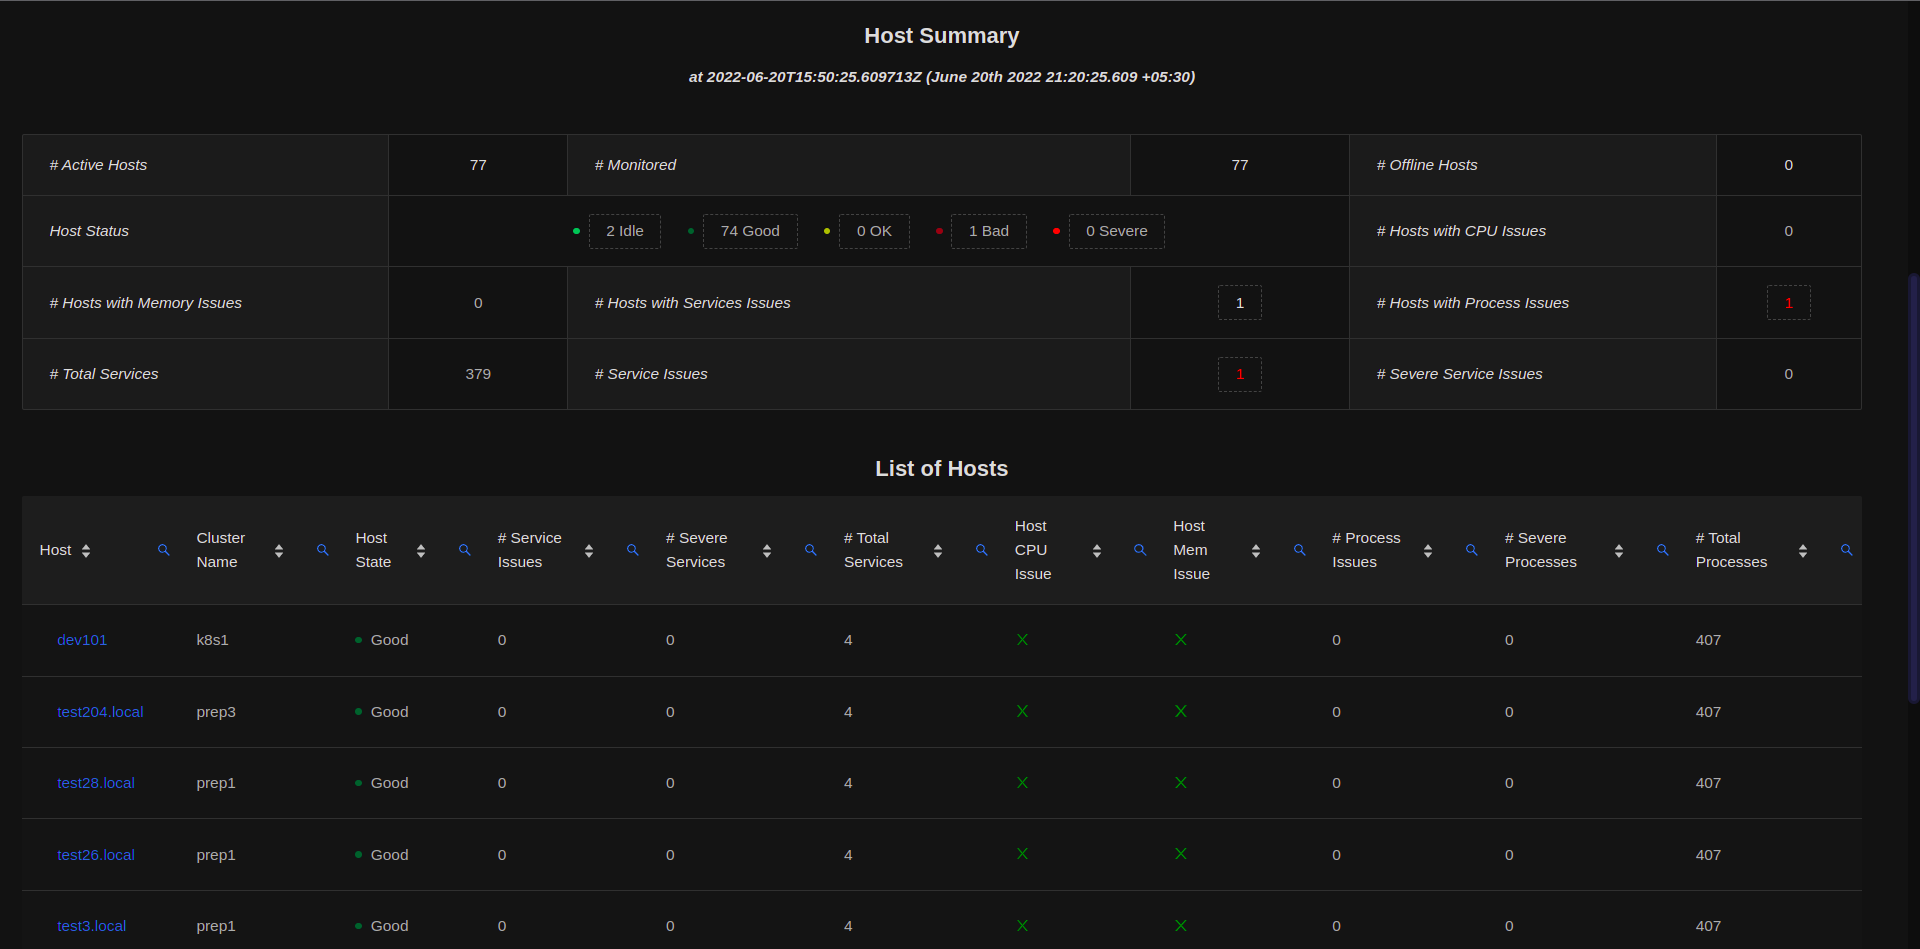
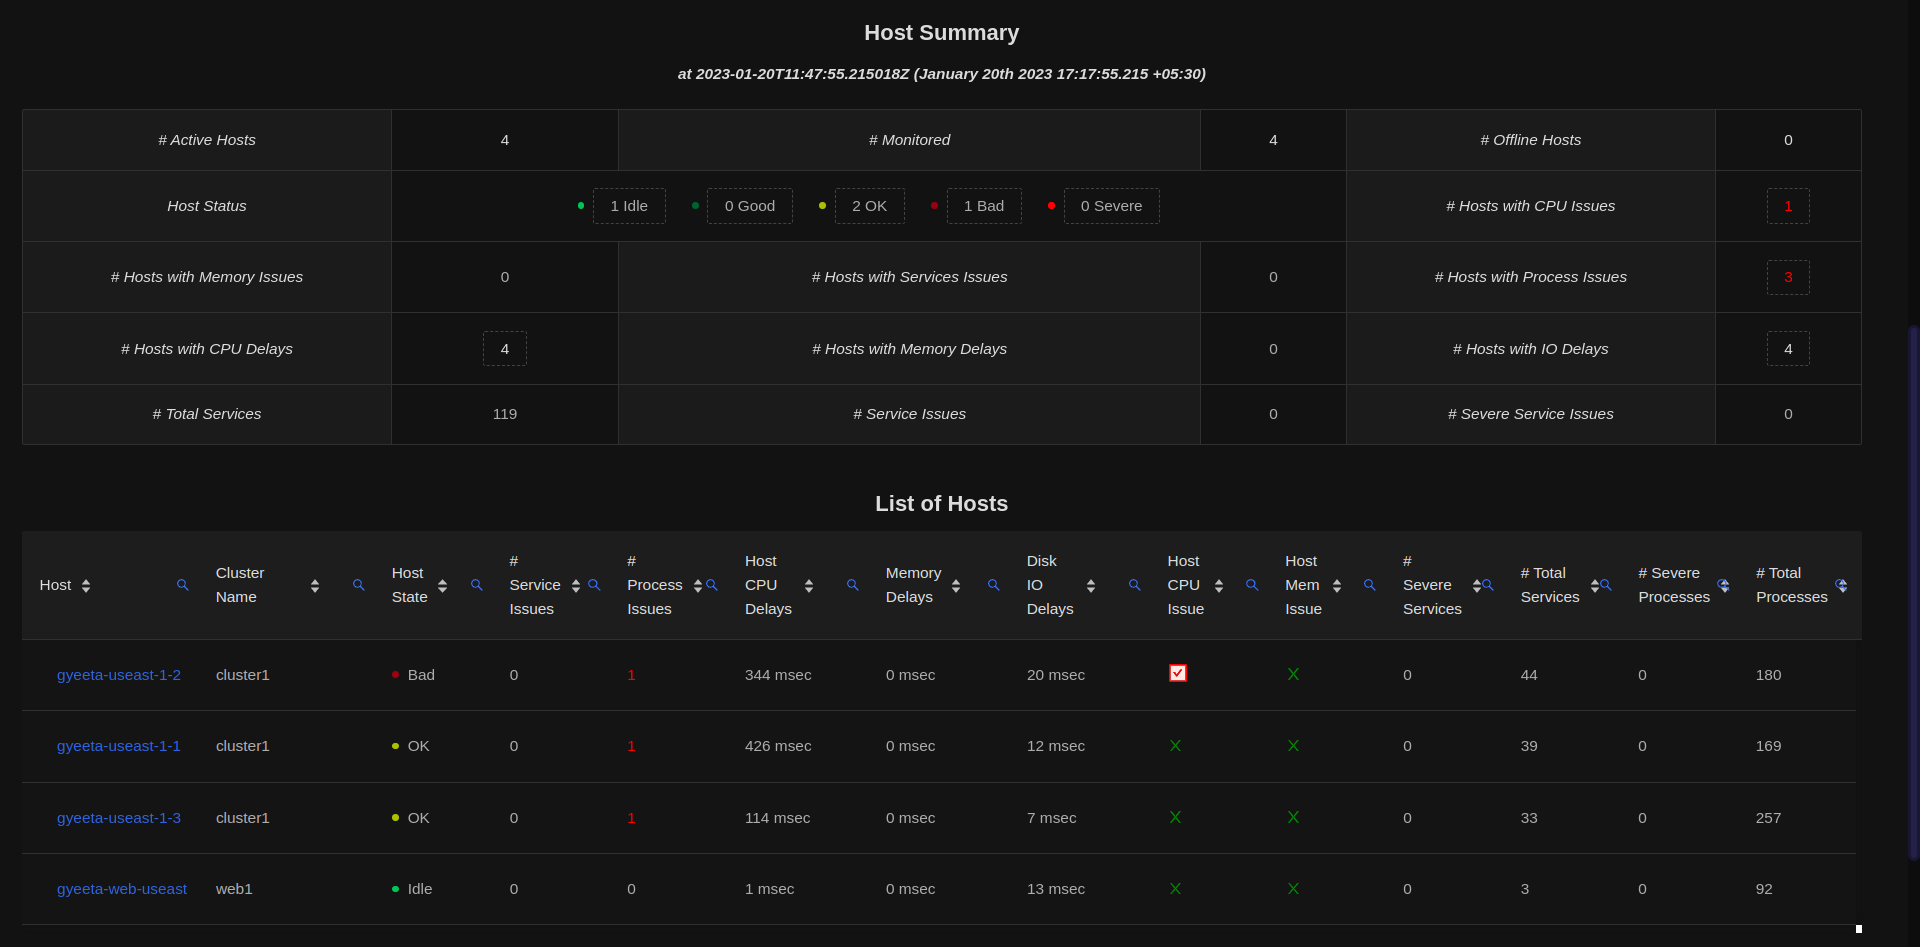
Updated for v0.2.0

diff --git a/docs/installation/partha_install.md b/docs/installation/partha_install.md
@@ -27,15 +27,25 @@ The `partha` Host Agent requires a Linux Kernel with minimum kernel version of 4
 `partha` currently supports only *x86_64* processors. Also, only *Intel/AMD* processors released after 2012 are supported as
 `partha` is compiled with avx instruction support.
 
-### Requirement of Kernel Headers {#kernel-headers}
+### Requirement of Kernel Headers for older kernels {#kernel-headers}
 
-The `partha` agent needs Kernel Headers package to be installed for eBPF support. Users need to ensure that the Kernel Headers 
+The `partha` agent needs Kernel Headers package to be installed on older kernels for eBPF support. Users need to ensure that the Kernel Headers 
 package is installed on the hosts to be monitored as otherwise `partha` will not run. 
+
+#### Older Distributions where Kernel Headers package required 
+
+- Ubuntu 18, 19, 20
+- Debian 10, 11
+- RHEL / CentOS 8.x, Rocky Linux 8.x
+- Amazon Linux 1 and 2
+- Fedora Linux 35 and below
+
+Newer Distributions include eBPF CO-RE BTF (BPF Type Format) Support and do not require *Kernel Headers* for eBPF based applications.
 
 On Google Container Optimized OS (COS), the `partha` container will itself download the currently running Kernel's Headers and so,
 the Kernel Package is not needed.
 
-**Command to install Kernel Headers :**
+**Command to install Kernel Headers (needed for older Distributions only) :**
 
 
 <Tabs>
@@ -205,9 +215,10 @@ helm show values gyeeta/partha > /tmp/partha.yaml
 helm install --namespace gyeeta --create-namespace partha1  gyeeta/partha -f /tmp/partha.yaml
 
 ```
-:::note
+:::info
 
-Users are required to first install the Linux Kernel Headers before running the Partha Helm Chart. Please refer to [Kernel Headers](#kernel-headers).
+On Older Linux Distributions, users are required to first install the Linux Kernel Headers before running the Partha Helm Chart. 
+Please refer to [Kernel Headers](#kernel-headers).
 
 :::
 

diff --git a/docs/installation/k8s_helm/partha_helm.md b/docs/installation/k8s_helm/partha_helm.md
@@ -21,17 +21,27 @@ The Partha Host Agent is installed as a Daemonset as it needs to be installed on
 - Helm version 3.2.0+
 - Linux kernel version 4.4+
 
-### Requirement of Kernel Headers
+### Requirement of Kernel Headers for older kernels
 
-The Partha Agent container requires *Kernel Headers* package to be installed on the base host for eBPF support. 
+The Partha Agent container requires *Kernel Headers* package to be installed on the base host for eBPF support on older kernels.
 
-This requirement is not applicable on Google Container Optimized OS (COS) (used in GKE environments), as the partha container will itself download 
-the currently running Kernel's Headers.
+#### Older Distributions where Kernel Headers package needed 
+
+- Ubuntu 20 and below
+- Debian 11 and below
+- RHEL, CentOS, Rocky Linux 8
+- Amazon Linux 1 and 2
+- Fedora Linux 35 and below
+
+On Google Container Optimized OS (COS) (used in GKE environments), the partha container will itself download the currently running Kernel's Headers.
+
+Newer Distributions include eBPF CO-RE BTF (BPF Type Format) Support and do not require *Kernel Headers* for eBPF based applications.
 
 The Partha Helm Chart includes a parameter `partha_config.install_kern_headers` which, if enabled, the Partha container itself will try installing
 the Kernel Headers package to the base OS. The parameter is disabled by default as on enabling this, the container may make changes to the base OS.
 
-Please refer to [Kernel Headers Installation](../partha_install#kernel-headers) for instructions on installing Kernel Headers directly on the base OS.
+Please refer to [Kernel Headers Installation](https://gyeeta.io/docs/installation/partha_install#kernel-headers) for instructions on installing 
+Kernel Headers directly on the base OS.
 
 ## Security Requirements
 

diff --git a/docs/monitor/hostdash.md b/docs/monitor/hostdash.md
@@ -8,7 +8,7 @@ description: Host Level Dashboards and Monitors
 
 ## Host Dashboard
 
-The Host Dashboard lists out all the currently active Hosts and shows their current state.
+The Host Dashboard lists out all the currently active Hosts and shows their current state and various other statistics.
 
 ![Host Dashboard](/img/hostdash.png)
 
@@ -17,6 +17,9 @@ of Services and Processes that are in `Bad` or `Severe` state and depending on C
 
 This enables a quick evaluation of how all the hosts globally are performing and for any hosts with issues, further drilldown
 enables users to determine the processes or services of issue within that host.
+
+The Host Dashboard also lists the Host level Contention (Delay) statistics for CPU, Memory and Disk IO. This allows a very quick
+way to figure out the hosts which are facing heavy CPU, Memory or IO contention or pressure.
 
 The Host Dashboard is updated every 15 sec. 
 
@@ -33,6 +36,8 @@ REST APIs using /v1/hoststate route.
 The Host Monitor is used to graphically monitor the state of a specific Host either in real time or for historical time periods.
 
 ![Host State Monitor](/img/hostmon.png)
+
+![Host State Monitor 2](/img/hostmon2.png)
 
 Using the Host monitor, users can drilldown charts after selecting the period of interest and get the precise Service/Processes which have issues.
 The Host Monitor is updated every 5 sec.

diff --git a/docs/installation/tldr_quick_install.md b/docs/installation/tldr_quick_install.md
@@ -48,15 +48,15 @@ to install the Failover instances separately as per the [Failover Handling](./fa
 
 ## Command to run the TLDR Quick Install Script
 
-```bash
+```bash title="Sample Command for TLDR Quick Install"
 
 curl -o /tmp/install-gyeeta-all-quick.sh -s https://gyeeta.io/packages/install-gyeeta-all-quick.sh && \
 	sudo bash /tmp/install-gyeeta-all-quick.sh /opt/gyeeta/postgresdb/data dbPassword adminPassword
 
 ```
 
-Please substitute the appropriate DB dir path, DB `postgres` user password needed and Web UI `admin` user password in
-the above command before running it in your environment.
+*Please substitute the appropriate DB dir path, DB `postgres` user password needed and Web UI `admin` user password in
+the above command before running it in your environment.*
 
 Note in the above command, the DB Data dir specified (`/opt/gyeeta/postgresdb/data`) will be created if it does not exist. 
 

diff --git a/docs/intro.md b/docs/intro.md
@@ -21,7 +21,7 @@ slug: /
 
 1. Service Level Statistics such as Queries/sec, Response Times (Latency) and HTTP Errors (if HTTP based) with no manual inputs or integrations.
    Monitors binary / proprietary network protocol or non HTTP Service statistics as well.
-2. Detect Process Level *CPU starvation, Virtual Memory or IO Bottlenecks*. 
+2. Detect Host and Process Level *CPU starvation, Virtual Memory or IO Bottlenecks*. 
 3. Service Maps, Process and Host level Network Flows with info on all Services and Processes.
 4. Query Global Aggregated Statistics from multiple hosts and servers using a single query either from Web UI or REST APIs.
 5. Self Learning Algorithms that can detect Anomalies, Contention or Degradation without any manual inputs. 

diff --git a/docs/monitor/uioverview.md b/docs/monitor/uioverview.md
@@ -77,6 +77,9 @@ Please refer to the Video of the UI Overview shown above for an example of this 
 Another possible workflow is to monitor a specific Service or a Process performance. For example, to monitor the performance of a config change.
 In such cases, users should access the Service or Process State Monitor.
 
+Users can also start with the *Global Host Dashboard* and check for Hosts with CPU, Memory or IO bottlenecks (Delays) and then drill-down
+to find the processes with the respective bottlenecks.
+
 Users can also query Dashboards for Historical time durations data.
 
 Another workflow could be to use the *Search* mechanism to search for specific cases. For example, search for a CPU Limited (Throttled) process

diff --git a/docs/monitor/overview.md b/docs/monitor/overview.md
@@ -60,7 +60,7 @@ Gyeeta monitors the following main metric categories (subsystems) :
 
 - ***Network Flows*** which includes coalescing flows across hosts and mapping Clients to Servers (Service maps)
 
-- ***Host State*** which includes monitoring Host CPU, Memory, host level Service and Process aggregations
+- ***Host State*** which includes monitoring Host CPU, Memory, Host level Service and Process aggregations and Delay Statistics
 
 - ***Cluster State*** which includes Cluster level Service, Process and Host aggregations
 
